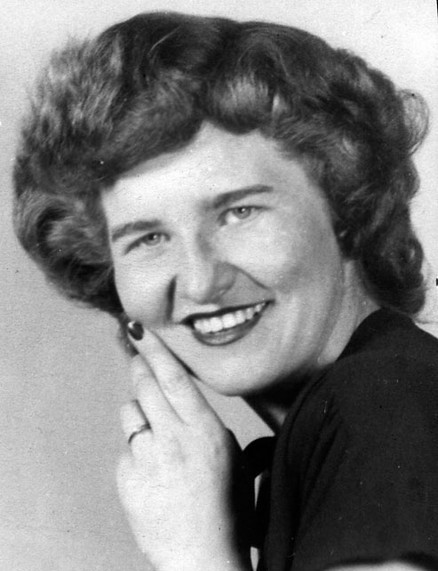
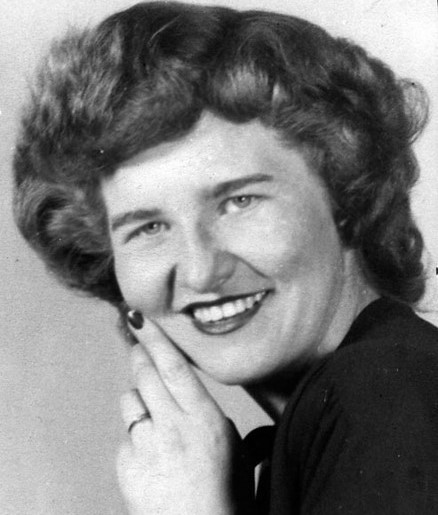
Changements sur les dimensions des images

diff --git a/pages_bio/BIO_EVELYN_BOYD.html b/pages_bio/BIO_EVELYN_BOYD.html
@@ -10,7 +10,7 @@
     <h1>BIOGRAPHIE DE EVELYN BOYD GRANVILLE</h1>
     <div class="div">
         <div class="Image">
-            <img src="./images/evelyn_boyd_granville.webp" class ="img1">
+            <img src="./images/evelyn_boyd_granville.jpg" class ="img1">
         
         <div class="texte">
             <p>
